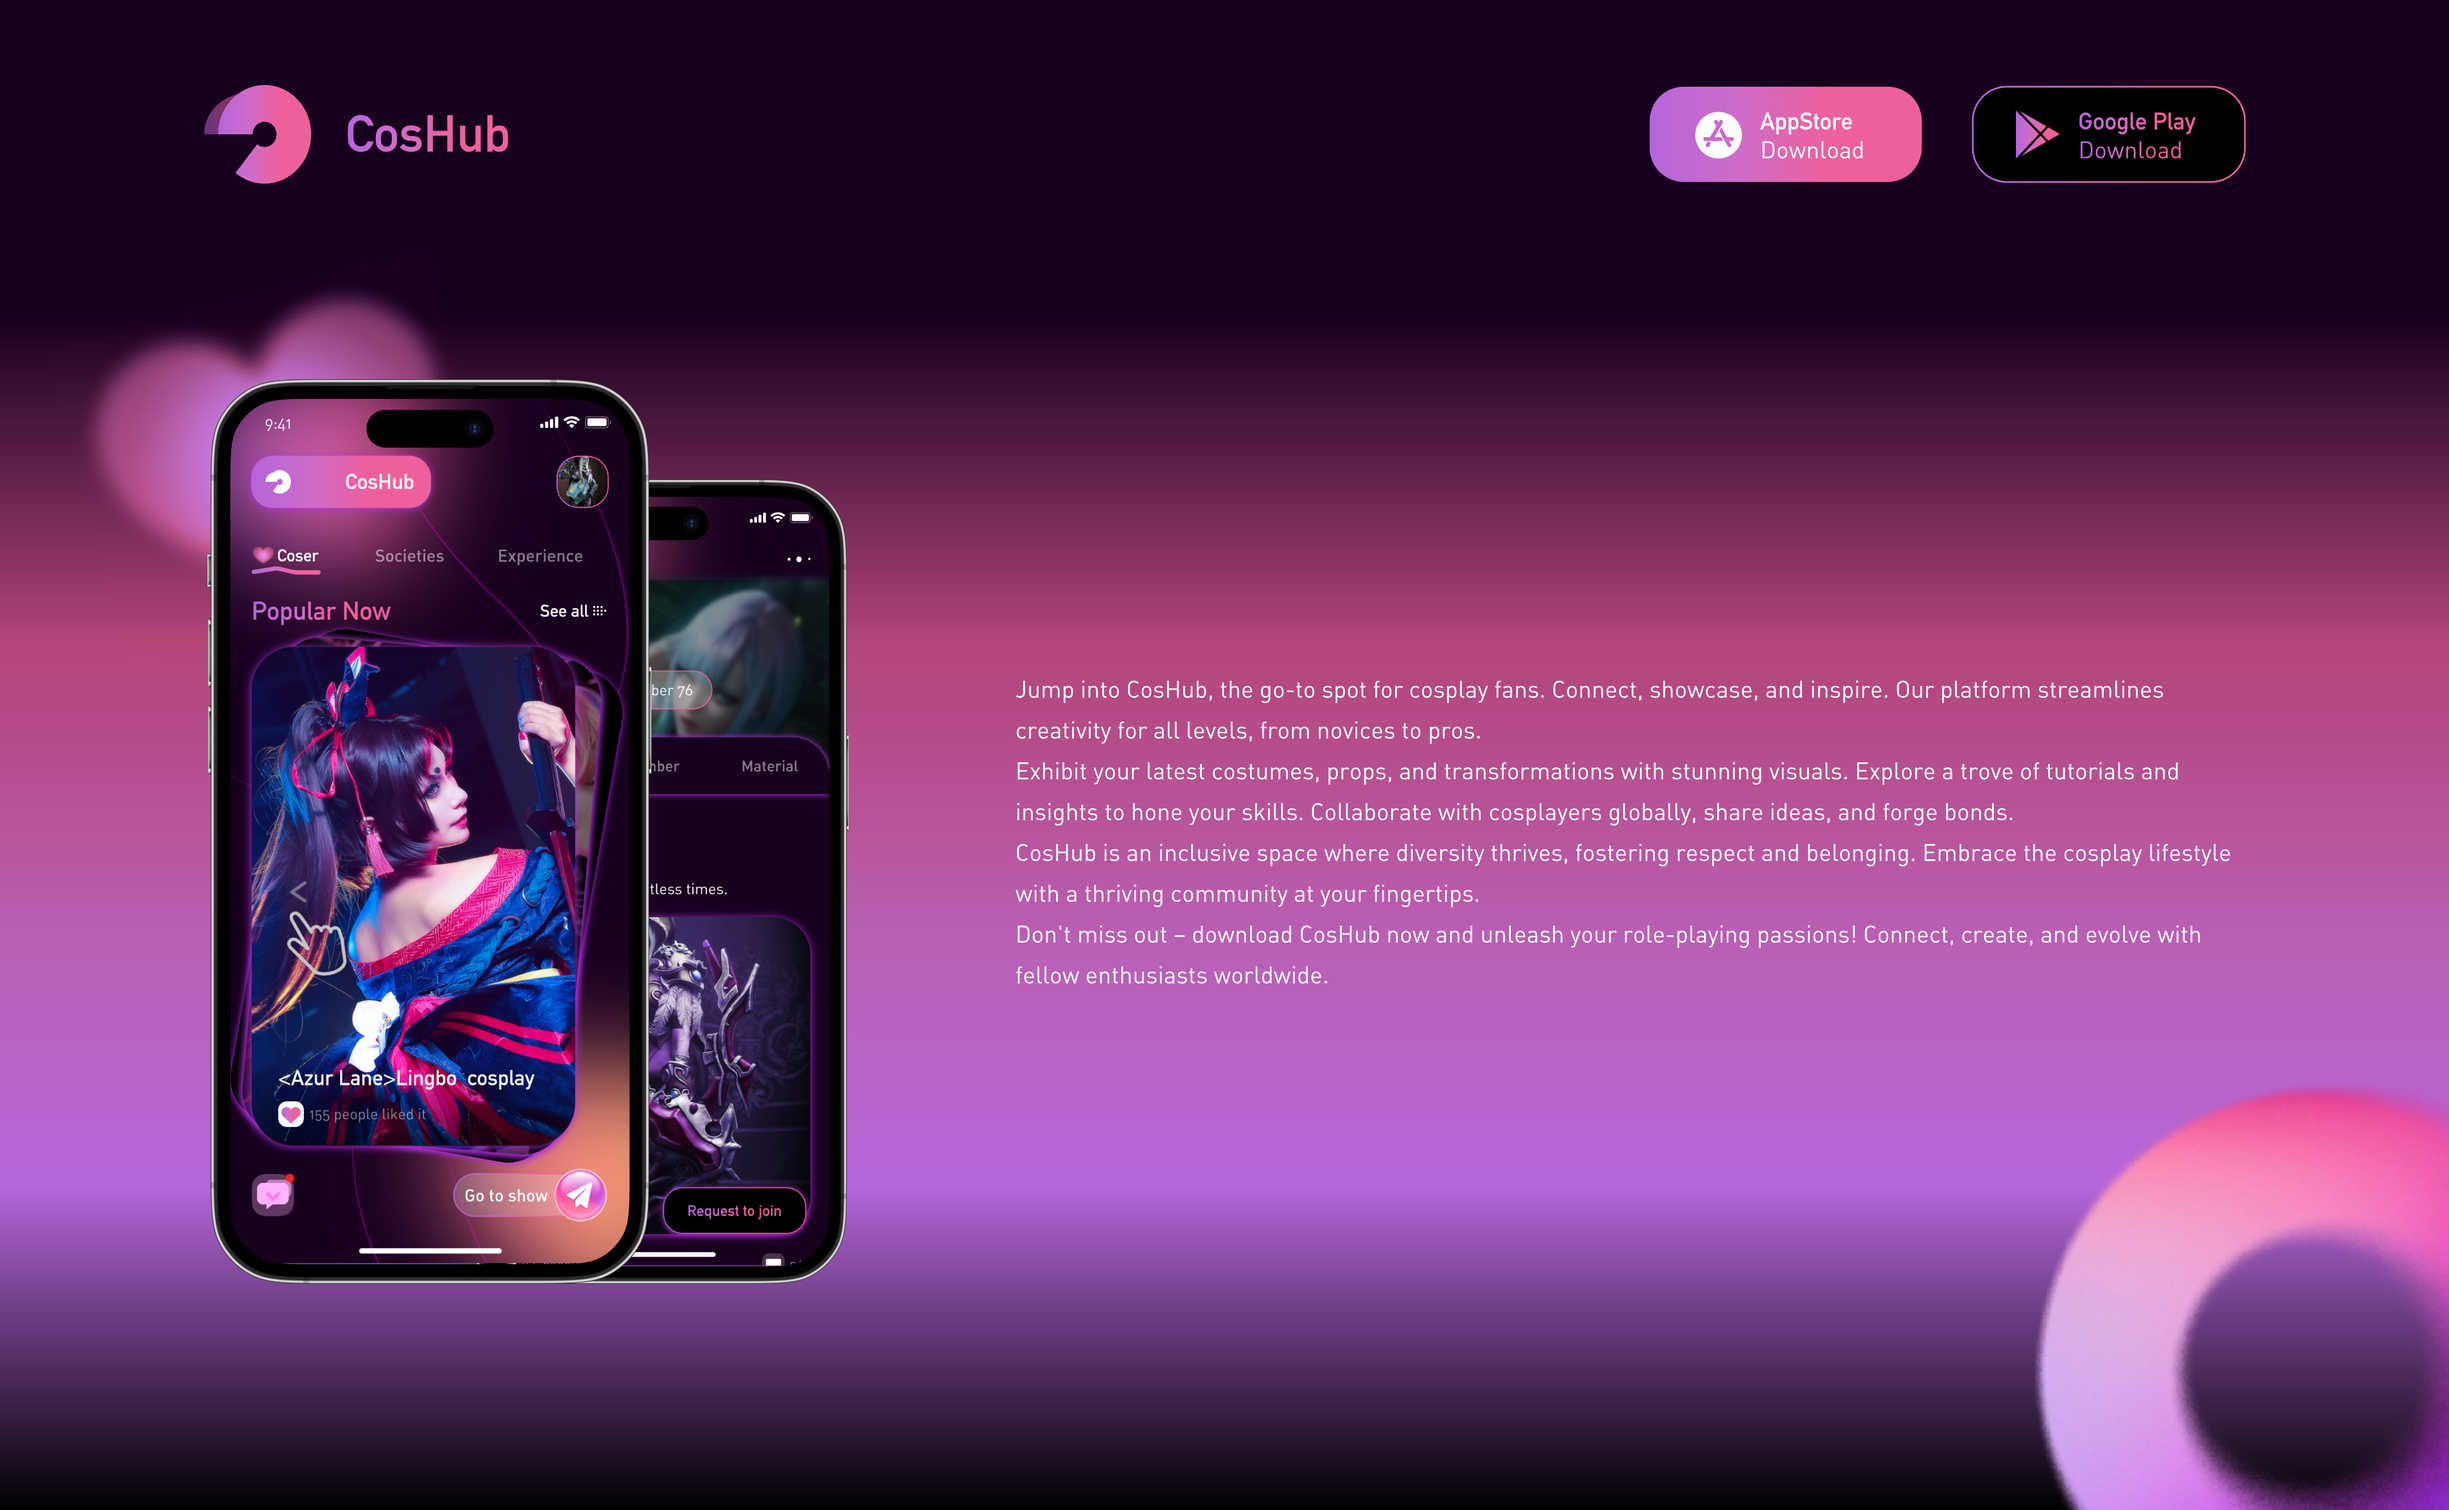
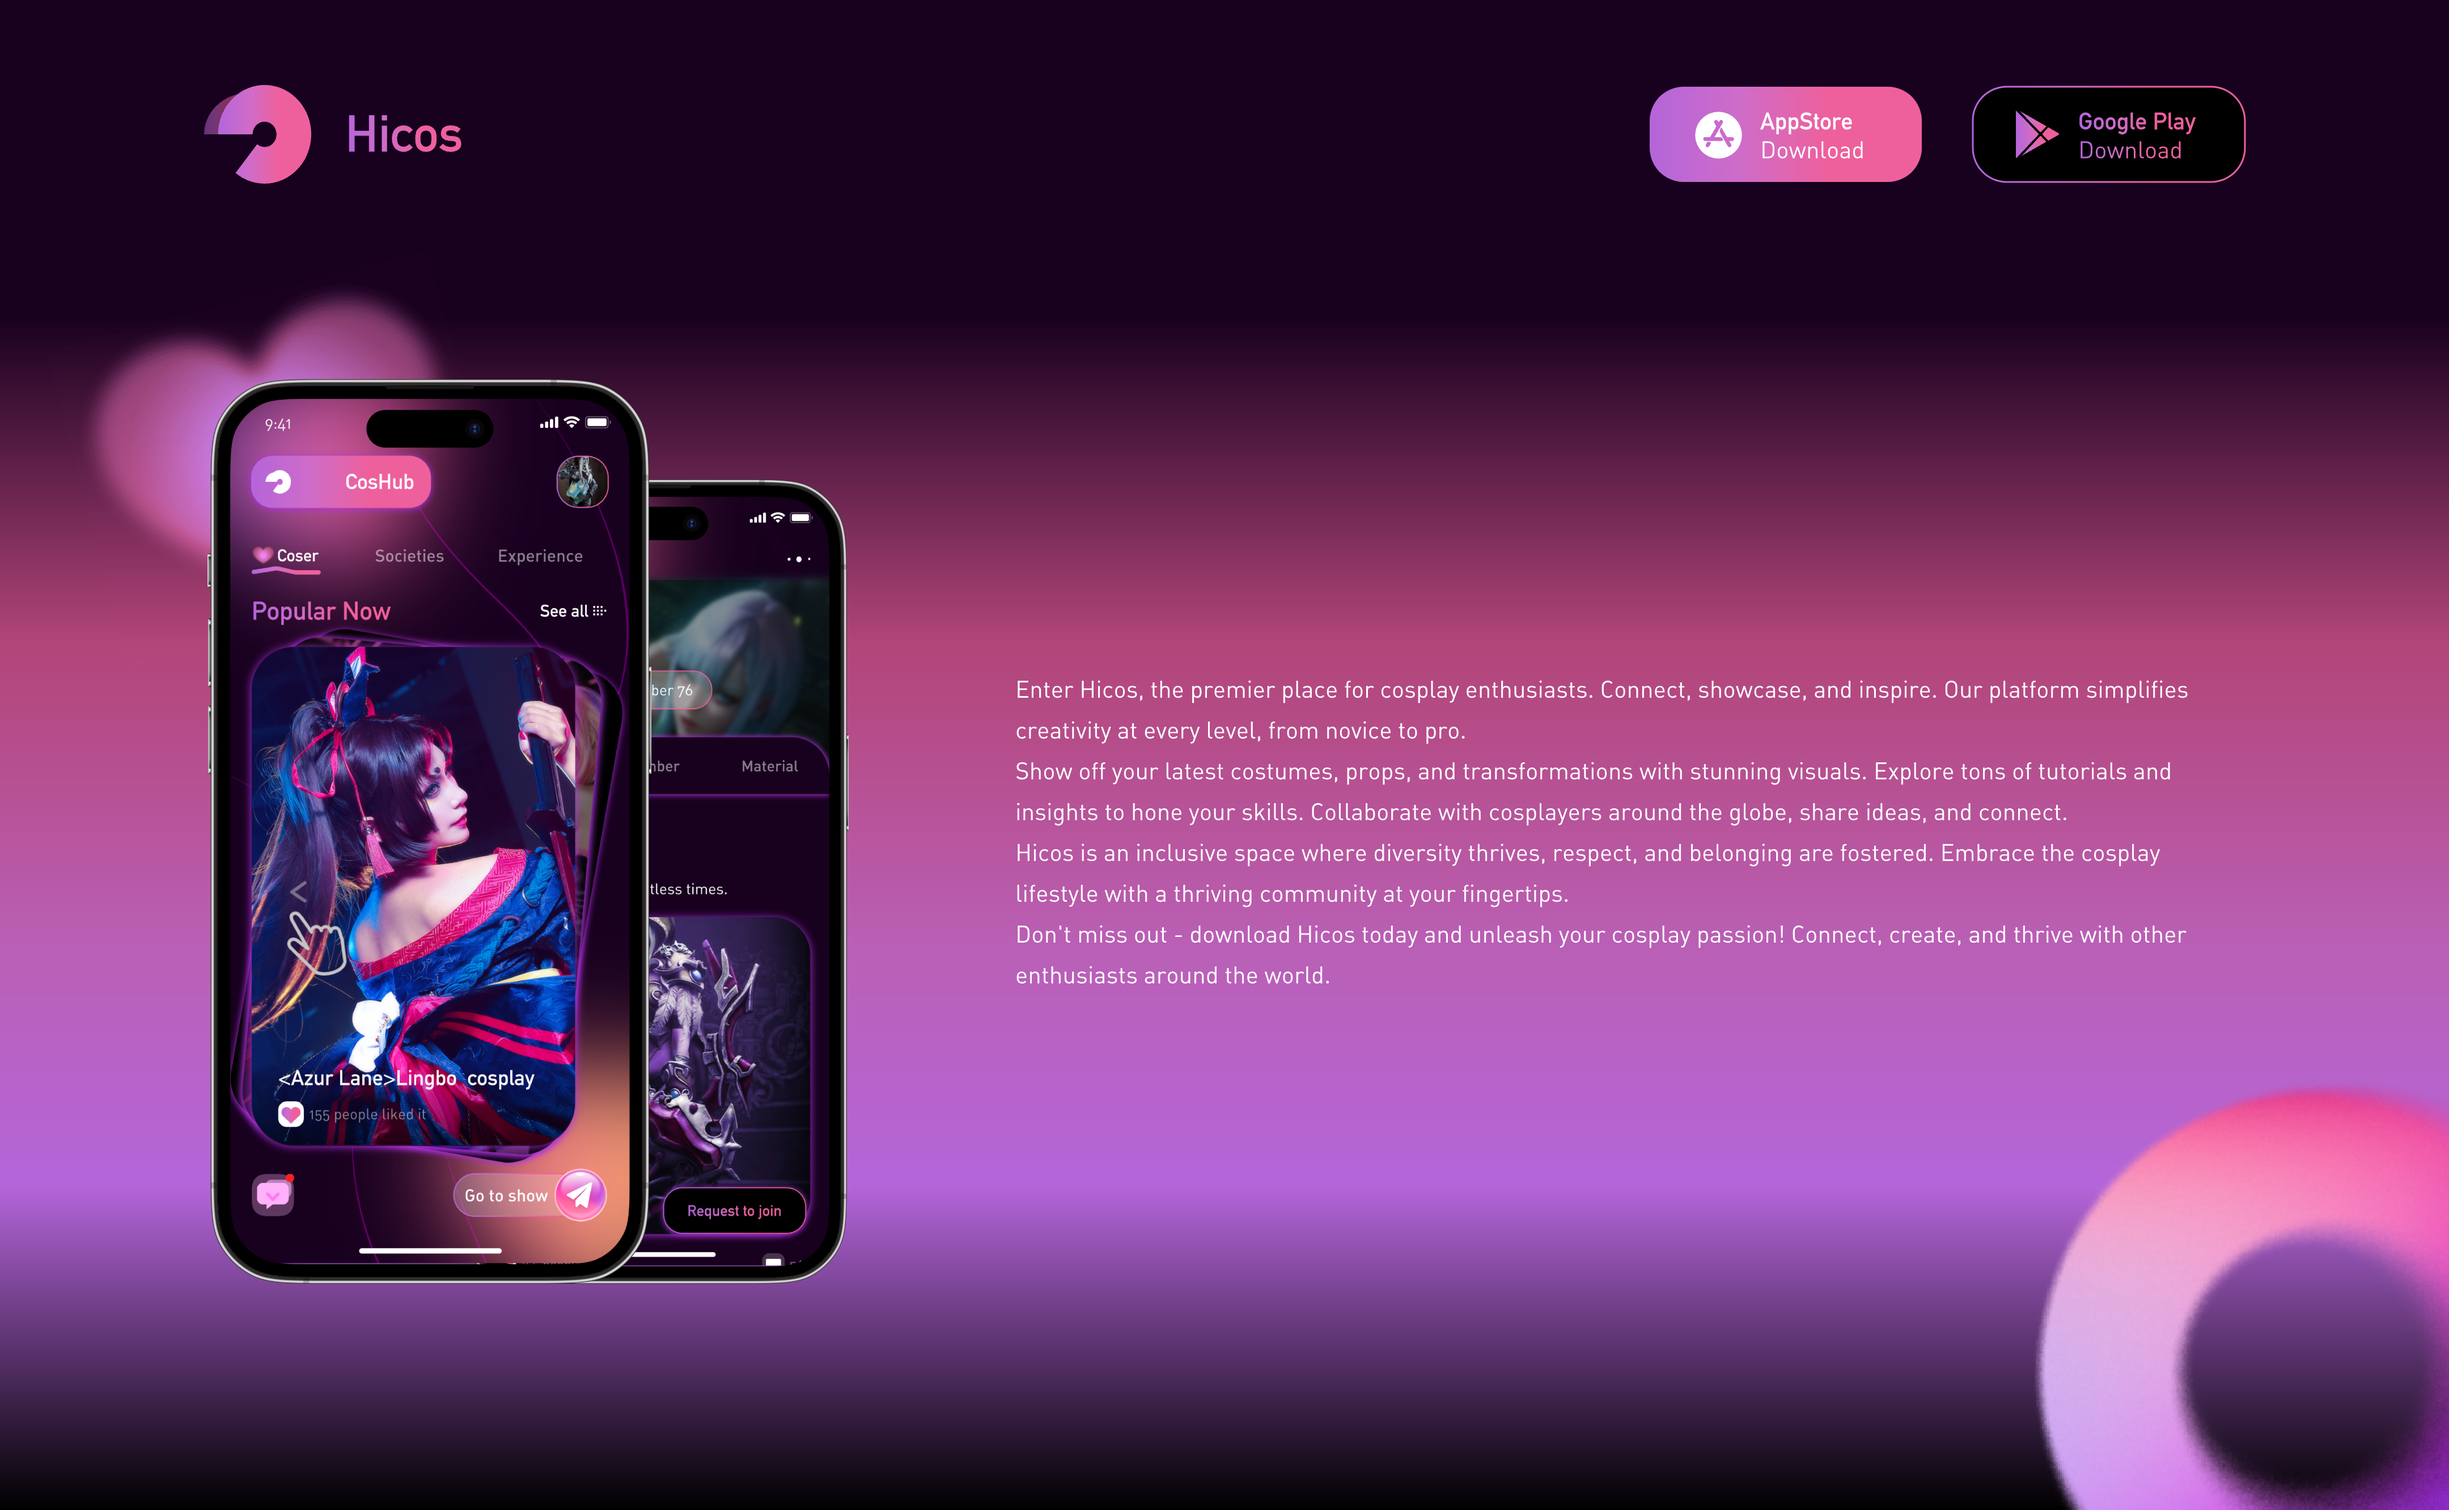
hicos

Changed region(s): [[0.4062, 0.4362, 0.9062, 0.6543], [0.125, 0.0623, 0.2188, 0.1246]]

diff --git a/index.html b/index.html
@@ -4,7 +4,7 @@
   <meta charset="UTF-8">
   <meta name="viewport" content="width=device-width, initial-scale=1.0">
   <link rel="icon" href="/favicon.svg" type="image/svg+xml">
-  <title>CosHub</title>
+  <title>Hicos</title>
   <meta name="description" content="Opinionated Vite Starter Template">
 </head>
 <body class="font-sans">

diff --git a/src/pages/privacy.vue b/src/pages/privacy.vue
@@ -2,7 +2,7 @@
 defineOptions({
   name: 'IndexPage',
 })
-const appName = 'CosHub'
+const appName = 'Hicos'
 </script>
 
 <template>

diff --git a/src/pages/users.vue b/src/pages/users.vue
@@ -2,7 +2,7 @@
 defineOptions({
   name: 'IndexPage',
 })
-const appName = 'CosHub'
+const appName = 'Hicos'
 </script>
 
 <template>
